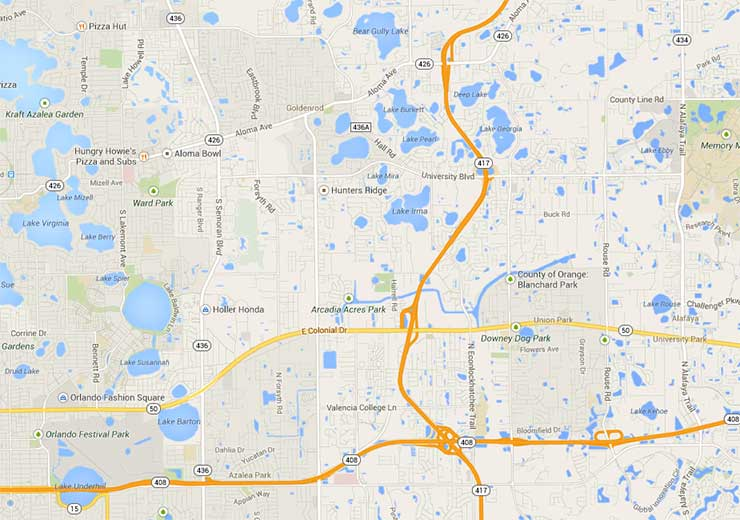
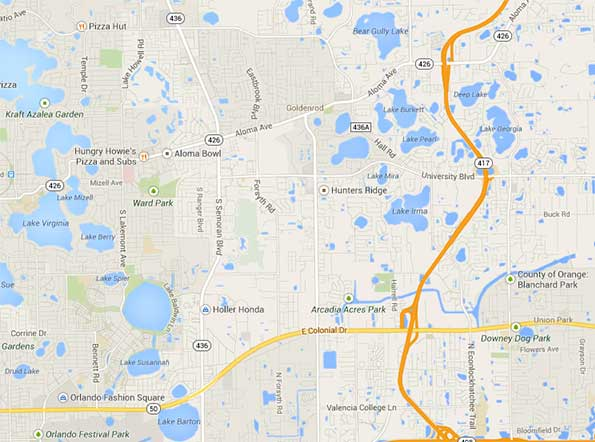
Added pins and location information that will pop up

diff --git a/project/order.html b/project/order.html
@@ -36,14 +36,41 @@
 			</div>
 		</div>
 
-		<div class="row">
+		<!-- Map Start -->
+		<div class="row">	
 			<div class="large-12 columns map_container">
-				<a class="pin" style="left: 500px; top: 90px;"></a>
-				<a class="pin" style="left: 310px; top: 300px;"></a>
-				<a class="pin" style="left: 430px; top: 160px;"></a>
-				<a class="pin" style="left: 200px; top: 85px;"></a>
+				<a class="pin" style="left: 200px; top: 85px;" location="semoran"></a>
+				<a class="pin" style="left: 500px; top: 90px;" location="lakeG"></a>
+				<a class="pin" style="left: 430px; top: 160px;" location="university"></a>
+				<a class="pin" style="left: 307px; top: 313px;" location="colonial"></a>
 			</div>
 		</div>
+
+
+		<!-- Location Information (hidden)-->
+		<div class="location_info_container">
+			<div class="location">
+				<h6>Semoran Location</h6>
+				<p>777 Semoran Blvd</p>
+				<p>Hours: 11am - Midnight</p>
+			</div>
+			<div class="location">
+				<h6>Lake Georgia Location</h6>
+				<p>1828 Lake Georgia Rd</p>
+				<p>Hours: 11am - Midnight</p>
+			</div>
+			<div class="location">
+				<h6>University Location</h6>
+				<p>1212 University Blvd</p>
+				<p>Hours: 11am - 1am</p>
+			</div>
+			<div class="location">
+				<h6>Colonial Location</h6>
+				<p>225 East Colonial Dr</p>
+				<p>Hours: 11am - 11pm</p>
+			</div>
+		</div>
+
 
 		<script src= "js/main.js"></script>
 		<script src="js/vendor/jquery.js"></script>

diff --git a/project/css/main.css b/project/css/main.css
@@ -98,8 +98,15 @@
 
 .map_container{
 	background-image: url(../images/templates/map.jpg);
-	height: 520px;
+	height: 442px;
 	background-repeat: no-repeat;
+	border-left: 1px solid #B2992F;
+	border-top: 1px solid #B2992F;
+	border-radius: 10px;
+	-webkit-border-radius: 10px;
+	-moz-border-radius: 10px;
+	background-color: #dbdbdb;
+	box-shadow: 3px 3px 3px #545252;
 }
 
 .map_container a.pin{
@@ -120,6 +127,8 @@
 .map_container a.pin.selected{
 	background-image: url(../images/templates/pin_selected.png);
 }
+
+.location_info_container{display:none;}
 
 .smallIcon{
 	border:3px solid #B2992F;
